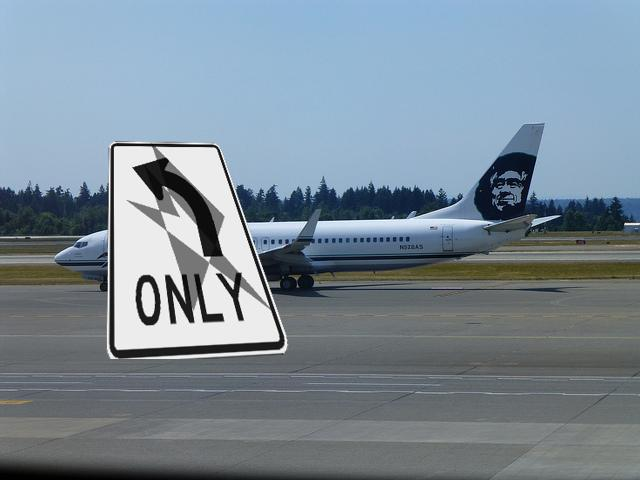
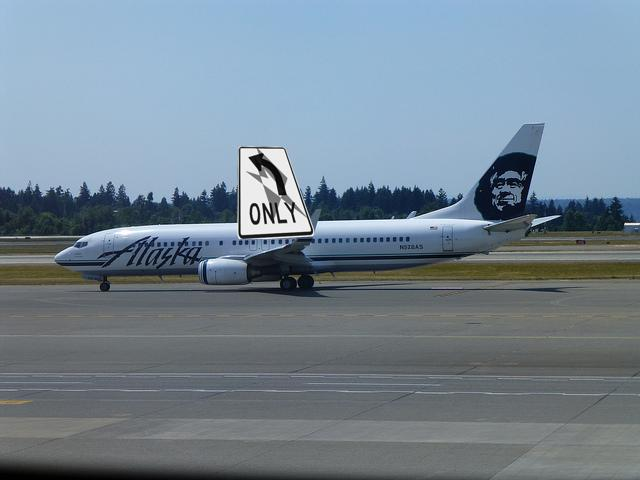
can autogen annotations!

Changed region(s): [[0.1562, 0.2812, 0.5, 0.75]]

diff --git a/wato_gen/data_generator.py b/wato_gen/data_generator.py
@@ -1,6 +1,8 @@
 import argparse
+from cProfile import label
 import glob  
 import os
+from pathlib import Path
 from functools import partial
 from PIL import Image
 import random
@@ -9,11 +11,59 @@ dirname = os.path.dirname(os.path.abspath(__file__))
 
 from multiprocessing import Pool
 
-def write_annotations(labels, class_name, x, y, w_f, h_f):
-  
+class_names = [ 'person', 'bicycle', 'car', 'motorcycle', 'airplane', 'bus', 'train', 'truck', 'boat', 'traffic light',
+  'fire hydrant', 'stop sign', 'parking meter', 'bench', 'bird', 'cat', 'dog', 'horse', 'sheep', 'cow',
+  'elephant', 'bear', 'zebra', 'giraffe', 'backpack', 'umbrella', 'handbag', 'tie', 'suitcase', 'frisbee',
+  'skis', 'snowboard', 'sports ball', 'kite', 'baseball bat', 'baseball glove', 'skateboard', 'surfboard',
+  'tennis racket', 'bottle', 'wine glass', 'cup', 'fork', 'knife', 'spoon', 'bowl', 'banana', 'apple',
+  'sandwich', 'orange', 'broccoli', 'carrot', 'hot dog', 'pizza', 'donut', 'cake', 'chair', 'couch',
+  'potted plant', 'bed', 'dining table', 'toilet', 'tv', 'laptop', 'mouse', 'remote', 'keyboard', 'cell phone',
+  'microwave', 'oven', 'toaster', 'sink', 'refrigerator', 'book', 'clock', 'vase', 'scissors', 'teddy bear',
+  'hair drier', 'toothbrush', 'do_not_enter', 'handicap_parking', 'left_turn_only_arrow', 'left_turn_only_words']
+
+def write_annotations(output_label, label_name, labels, class_name, x, y, w_f, h_f, w_b, h_b):
+  ''' Write annotation to a new label file (.txt). 
+      Format: class_index x_centre y_centre width height
+      all values normalized from 0 to 1
+  '''
+  f = open(os.path.join(output_label, label_name), "w+")
+
+  # copy over the labels from the original data
+  for line in labels:
+    f.write(line)
+
+  # get index of the class
+  class_index = class_names.index(class_name)
+
+  # for images that are off the screen...
+  # too far right or too far down
+  if x + w_f > w_b:
+    w_f = w_b - x
+  if y + h_f > h_b:
+    h_f = h_b - y
+
+  # too far left or too far up
+  if x < 0:
+    w_f = w_f + x
+    x = 0
+  if y < 0:
+    h_f = h_f + y
+    y = 0
+
+  # get centres and normalize
+  x_centre = x + w_f/2
+  y_centre = y + h_f/2
+
+  width = w_f/w_b
+  height = h_f/h_b
+  x_centre = x_centre/w_b
+  y_centre = y_centre/h_b
+
+  # write to txt 
+  f.write("{} {:0.6f} {:0.6f} {:0.6f} {:0.6f}".format(class_index, x_centre, y_centre, width, height))
+
   return
 
-       
 def combine_data(data, output_image, output_label, min_size, min_appearance):
   ''' Load paths, augment images and labels, save them to the output directory
   '''
@@ -22,6 +72,7 @@ def combine_data(data, output_image, output_label, min_size, min_appearance):
   foreground = Image.open(data["road_sign_path"])
   class_name = data["road_sign_class"]
   labels = open(data["label_path"])
+  label_name = os.path.basename(data["label_path"])
  
   # Combine the foreground and background images
   w_b, h_b = background.size
@@ -44,7 +95,7 @@ def combine_data(data, output_image, output_label, min_size, min_appearance):
   background.paste(foreground, (x, y), foreground)
   background.save(os.path.join(output_image, os.path.basename(data["image_path"])))
 
-  write_annotations(labels, class_name, x, y, w_f, h_f)
+  write_annotations(output_label, label_name, labels, class_name, x, y, w_f, h_f, w_b, h_b)
 
   return 
 
@@ -85,8 +136,8 @@ def generate_road_sign_data(args):
   road_sign_dir = os.path.join(dirname, args.road_signs)
   
   # iterator for coco images and their labels
+  # iglob doesn't have a specific order when iterating, so we have to adapt the labels path to it
   coco_image_iterator = glob.iglob(os.path.join(coco_dir, 'images', 'train2017', '*.jpg'))
-  coco_label_iterator = glob.iglob(os.path.join(coco_dir, 'labels', 'train2017', '*.txt'))
 
   # what we will be sending into the pool for multiprocessing
   data_iterable = []
@@ -107,8 +158,11 @@ def generate_road_sign_data(args):
       except StopIteration:
         finish_iteration = True
       else:
+        coco_image_path = next(coco_image_iterator)
+        coco_label_path = os.path.join(coco_dir, 'labels', 'train2017', '{}.txt'.format(Path(os.path.basename(coco_image_path)).stem))
+
         data_iterable.append({"road_sign_path": road_sign, "road_sign_class": road_sign_class, 
-          "image_path": next(coco_image_iterator), "label_path": next(coco_label_iterator)})
+          "image_path": coco_image_path, "label_path": coco_label_path})
 
         if len(data_iterable) is args.batch_size:
           # send data_iterable in for processing
